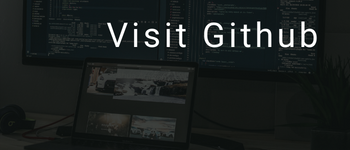
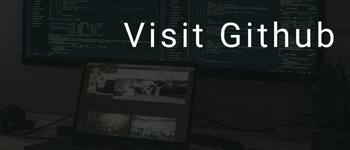
added keras page

Changed region(s): [[0.2857, 0.1333, 0.9714, 0.32]]

diff --git a/blog/deep_learning/keras_basics.html b/blog/deep_learning/keras_basics.html
@@ -1,0 +1,181 @@
+<!DOCTYPE html>
+<html>
+
+<head>
+    <script type='text/javascript'
+        src='https://platform-api.sharethis.com/js/sharethis.js#property=61684b19e876080012645f8a&product=sop'
+        async='async'></script>
+    <!-- NavBar . Also copy the part from start of <body> tag below -->
+    <script src="https://ajax.googleapis.com/ajax/libs/jquery/3.5.1/jquery.min.js"></script>
+    <script>
+        $(function () {
+            $("#nav_bar_dark").load("/assets/scripts/nav_bar_dark.html");
+        });
+    </script>
+
+    <title>Juspreet51.in</title>
+
+    <link rel="icon" type="image/png" href="/favicon.png">
+
+    <link rel="stylesheet" type="text/css" href="/assets/stylesheets/nav_bar_dark_style.css">
+    <link rel="stylesheet" type="text/css" href="/assets/stylesheets/blog_posts_style.css">
+    <link rel="stylesheet" type="text/css" href="/assets/stylesheets/blog_posts_style.css">
+    <link rel="stylesheet" type="text/css" href="/assets/stylesheets/button_style.css">
+    <link rel="stylesheet" type="text/css" href="/assets/stylesheets/css_dark_mode_gist_embed_code.css">
+
+    <!-- Google Fonts: Robot Black 900-->
+    <link rel="preconnect" href="https://fonts.googleapis.com">
+    <link rel="preconnect" href="https://fonts.gstatic.com" crossorigin>
+    <link href="https://fonts.googleapis.com/css2?family=Roboto:wght@300&display=swap" rel="stylesheet">
+    <link href="https://fonts.googleapis.com/css2?family=Orbitron:wght@900&display=swap" rel="stylesheet">
+    <link href="https://fonts.googleapis.com/css2?family=Press+Start+2P&display=swap" rel="stylesheet">
+    <link href="https://fonts.googleapis.com/css2?family=Noto+Sans&display=swap" rel="stylesheet">
+    <link href="https://fonts.googleapis.com/css2?family=Exo+2:wght@900&display=swap" rel="stylesheet">
+
+    <meta name="viewport" content="width=device-width, initial-scale=1.0">
+
+</head>
+
+<body>
+    <!-- NavBar . Also copy the part from start of <head> tag above -->
+    <div id="nav_bar_dark"></div>
+
+    <div class="three_col_layout">
+
+        <!-- ####################
+    LHS Sidebar needs update
+    #################### -->
+        <div class="column_left">
+            <h2 style="text-align: center;"> Chapters </h2>
+            <a href="/blog/deep_learning/neural_nets_basics">1) Glossary</a> <br>
+            <a href="#">2) Keras Implementation</a> <br>
+            <a href="#">3) </a> <br>
+        </div>
+
+        <!-- ####################
+    Page Titke needs update
+    #################### -->
+        <div class="column_center">
+            <h1>Keras Implementation</h1>
+            <div class="meta_info">
+                <span style="float: left;">
+                    <p>
+                        <!-- ####################
+              Date-Posted needs update
+              #################### -->
+                        Posted by: <a href="http://juspreet51.in/blog/home" target="_blank"
+                            class="blog_links">Juspreet51</a>
+                    </p>
+                </span>
+                <span style="float: right;">
+                    <p>
+                        Last Update on: 22 Oct, 2021
+                    </p>
+                </span>
+            </div>
+
+
+            <!-- ####################
+        Banner img needs update
+        #################### -->
+            <div class="banner">
+                <img src="/assets/imgs/banners/nn_02.jpg">
+            </div>
+
+            <br>
+
+            <div class="share_this_plugin">
+                <br>
+                <!-- Also copy the part from start of <head> tag above -->
+                <div class="sharethis-inline-share-buttons"></div>
+            </div>
+            <h1>Keras Implementation</h1>
+            <hr>
+            <div class="toc">
+                <h1>Table of Contents</h1>
+                <a href="#basics">1) Basics</a> <br>
+                <a href="#intermediate">2) Intermediate</a> <br>
+                <a href="#footer">3) Something</a> <br>
+            </div>
+            <hr>
+
+            <div class="blog_content">
+                <br>
+                <div id="basics">
+                    <h1>1) Basics</h1>
+                    <p>
+                        <b>SELECT and WHERE</b>:
+                    </p>
+                </div>
+                <div id="intermediate">
+                    <h1>2) Intermediate</h1>
+                    <p>
+                        <b>Handling NULLs creatively</b>: COALESCE
+                    </p>
+                </div>
+            </div>
+
+            <div class="column_right">
+                <!-- <h2 style="text-align: center;"> Topics </h2>
+                <a href="#basics">a) Basics</a> <br>
+                <a href="#sample">b) Distributions</a> <br>
+                <a href="#summary">c) Data Summary</a> <br>
+                <a href="#distribution">d)Shape of Distribution</a> <br> -->
+            </div>
+            <!-- ########################################### -->
+            <!-- ############## RHS Sidebar ################ -->
+            <!-- ########################################### -->
+
+        </div>
+        <!-- ################################################### -->
+        <!-- ############ three_col_layout Ends Here ########### -->
+        <!-- ################################################### -->
+
+        <div style="height: 50px;">
+            <h1></h1>
+        </div>
+
+        <div class="footer" id="footer">
+            <div id="page_change_btns">
+                <a href="/blog/deep_learning/neural_nets_basics">
+                    <button class="pagination_button previous_button disabled_btn" style="vertical-align:middle;">
+                        <span>Previous </span>
+                    </button>
+                </a>
+
+                <!-- ####################
+                Link in nxt-btn needs update
+                #################### -->
+                <a href="#">
+                    <button class="pagination_button next_button" style="">
+                        <span>Learn More </span>
+                    </button>
+                </a>
+            </div>
+            <br> <br> <br> <br>
+            <div class="share_this_plugin">
+                <h1>Share This</h1>
+                <p>Share it with your friends and colleagues whom you think it can help</p>
+                <!-- Footer . Also copy the part from start of <head> tag above -->
+                <div class="sharethis-inline-share-buttons"></div>
+            </div>
+
+            <div class="comment_box">
+                <!-- ########################################### -->
+                <!-- ############# Needs updates ############### -->
+                <!-- ########################################### -->
+                <!-- begin wwww.htmlcommentbox.com -->
+                <div id="HCB_comment_box"><a href="http://www.htmlcommentbox.com">Comment Box</a> is loading comments...
+                </div>
+                <link rel="stylesheet" type="text/css"
+                    href="https://www.htmlcommentbox.com/static/skins/bootstrap/twitter-bootstrap.css?v=0" />
+                <script type="text/javascript"
+                    id="hcb"> /*<!--*/ if (!window.hcb_user) { hcb_user = {}; } hcb_user.PAGE = "https://juspreet51.github.io/blog/deep_learning/network_understanding_basic"; (function () { var s = document.createElement("script"), l = hcb_user.PAGE || ("" + window.location).replace(/'/g, "%27"), h = "https://www.htmlcommentbox.com"; s.setAttribute("type", "text/javascript"); s.setAttribute("src", h + "/jread?page=" + encodeURIComponent(l).replace("+", "%2B") + "&mod=%241%24wq1rdBcg%24WGLJ0qbFjhsr.BXys0KRJ%2F" + "&opts=16406&num=5&ts=1633641065176"); if (typeof s != "undefined") document.getElementsByTagName("head")[0].appendChild(s); })(); /*-->*/</script>
+                <!-- end www.htmlcommentbox.com -->
+            </div>
+
+        </div>
+
+</body>
+
+</html>

diff --git a/blog/deep_learning/neural_nets_basics.html b/blog/deep_learning/neural_nets_basics.html
@@ -32,7 +32,7 @@
     <link href="https://fonts.googleapis.com/css2?family=Noto+Sans&display=swap" rel="stylesheet">
     <link href="https://fonts.googleapis.com/css2?family=Exo+2:wght@900&display=swap" rel="stylesheet">
 
-    <meta name="viewport" content="width=device-width, initial-scale=1.0"> 
+    <meta name="viewport" content="width=device-width, initial-scale=1.0">
 
 </head>
 
@@ -48,7 +48,7 @@
         <div class="column_left">
             <h2 style="text-align: center;"> Chapters </h2>
             <a href="#">1) Glossary</a> <br>
-            <a href="/blog/deep_learning/neural_nets_keras_implementation">2) Keras Implementatino</a> <br>
+            <a href="/blog/deep_learning/keras_basics">2) Keras Implementation</a> <br>
             <a href="#">3) </a> <br>
         </div>
 
@@ -79,13 +79,13 @@
         Banner img needs update
         #################### -->
             <div class="banner">
-                <img src="/assets/imgs/banners/dl_01.png">
+                <img src="/assets/imgs/banners/nn_01.jpg">
             </div>
 
             <br>
-            
+
             <div class="share_this_plugin">
-              <br>
+                <br>
                 <!-- Footer . Also copy the part from start of <head> tag above -->
                 <div class="sharethis-inline-share-buttons"></div>
             </div>
@@ -195,7 +195,7 @@
 
     <div class="footer">
         <div id="page_change_btns">
-            <a href="/blog/deep_learning/nlp">
+            <a href="#">
                 <button class="pagination_button previous_button disabled_btn" style="vertical-align:middle;">
                     <span>Previous </span>
                 </button>
@@ -204,7 +204,7 @@
             <!-- ####################
             Link in nxt-btn needs update
             #################### -->
-            <a href="/blog/deep_learning/neural_nets_keras_implementation">
+            <a href="/blog/deep_learning/keras_basics">
                 <button class="pagination_button next_button" style="">
                     <span>Keras Implementation </span>
                 </button>
